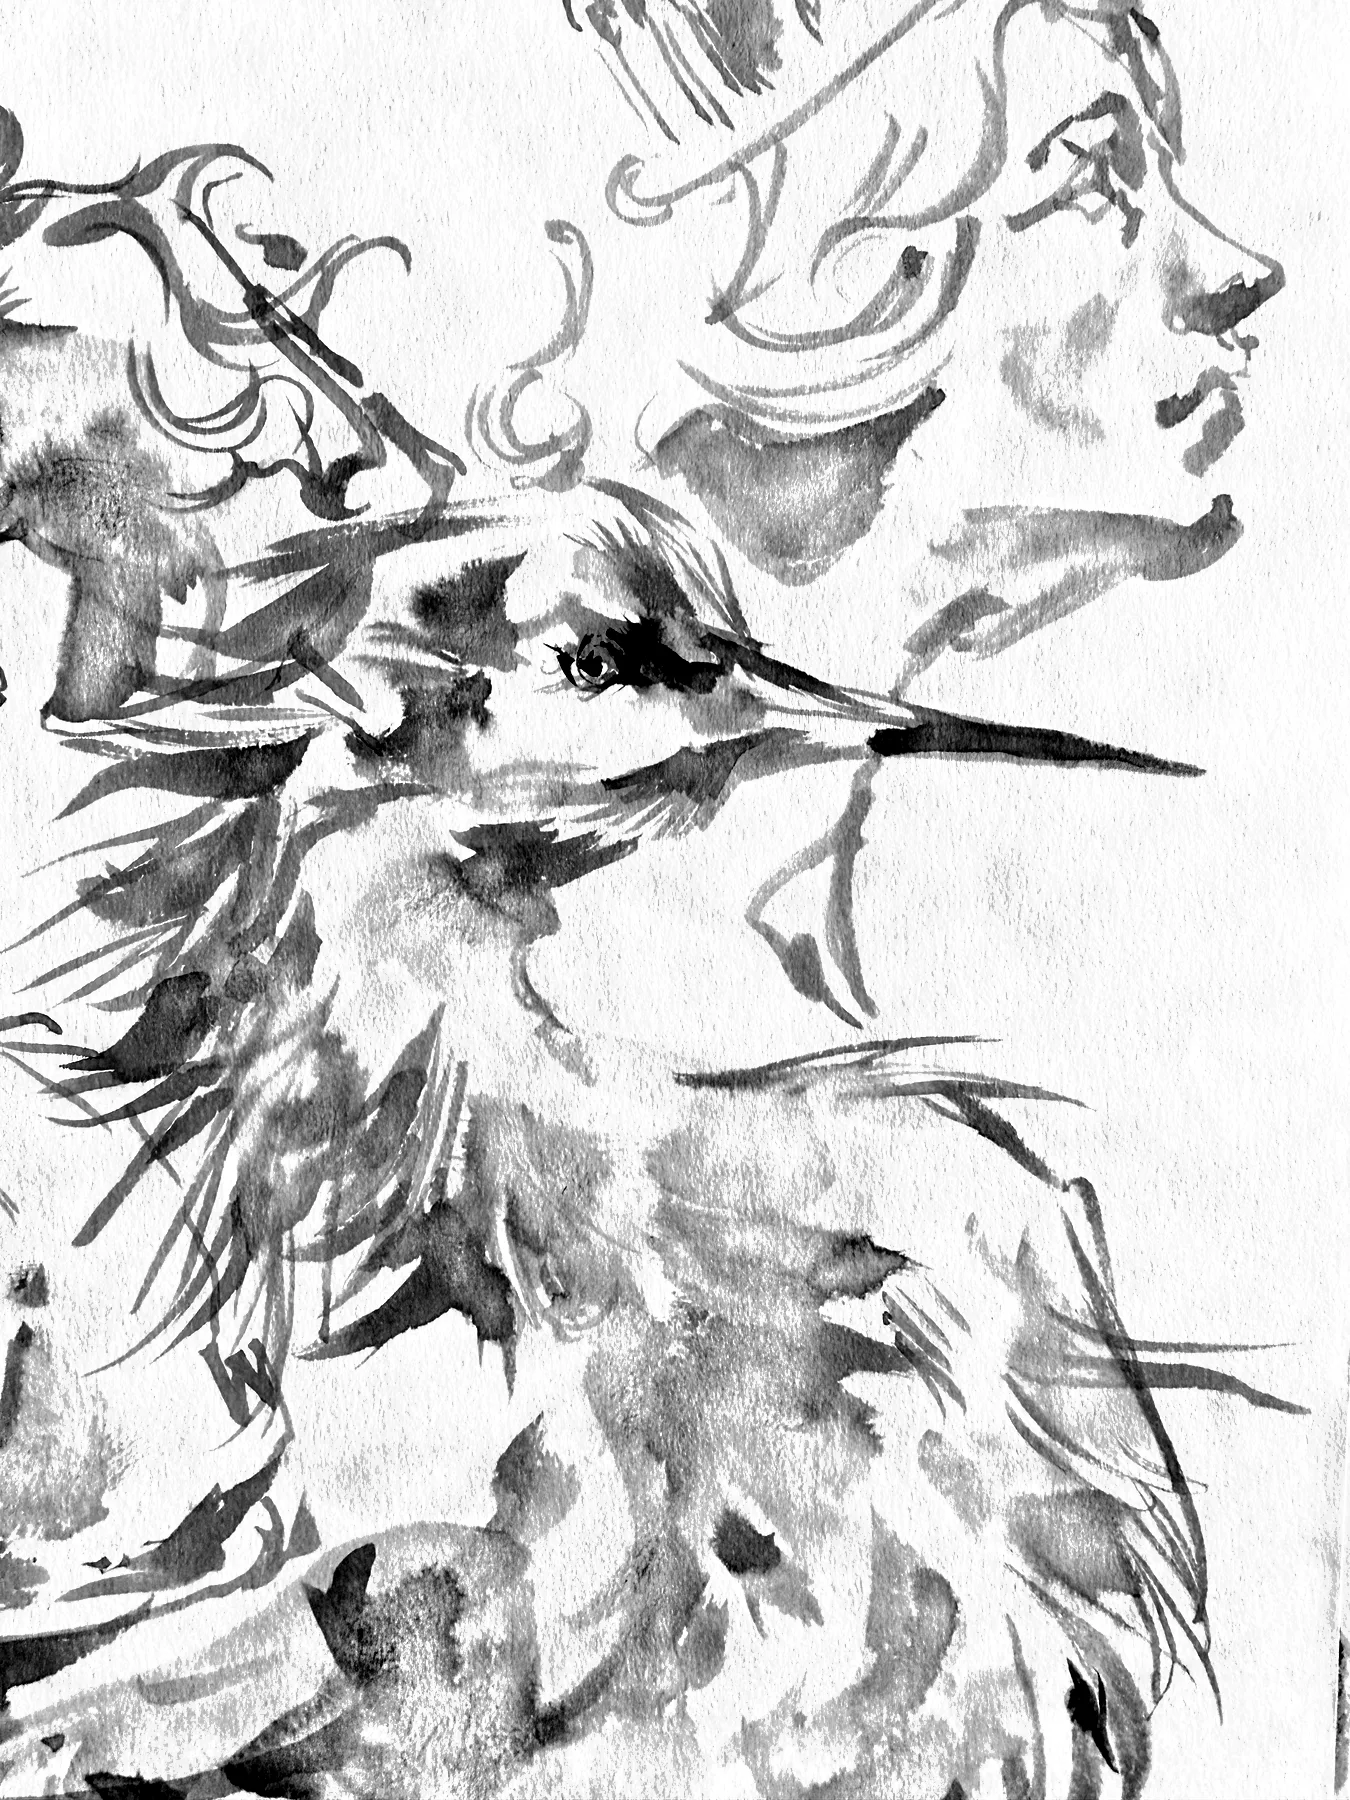
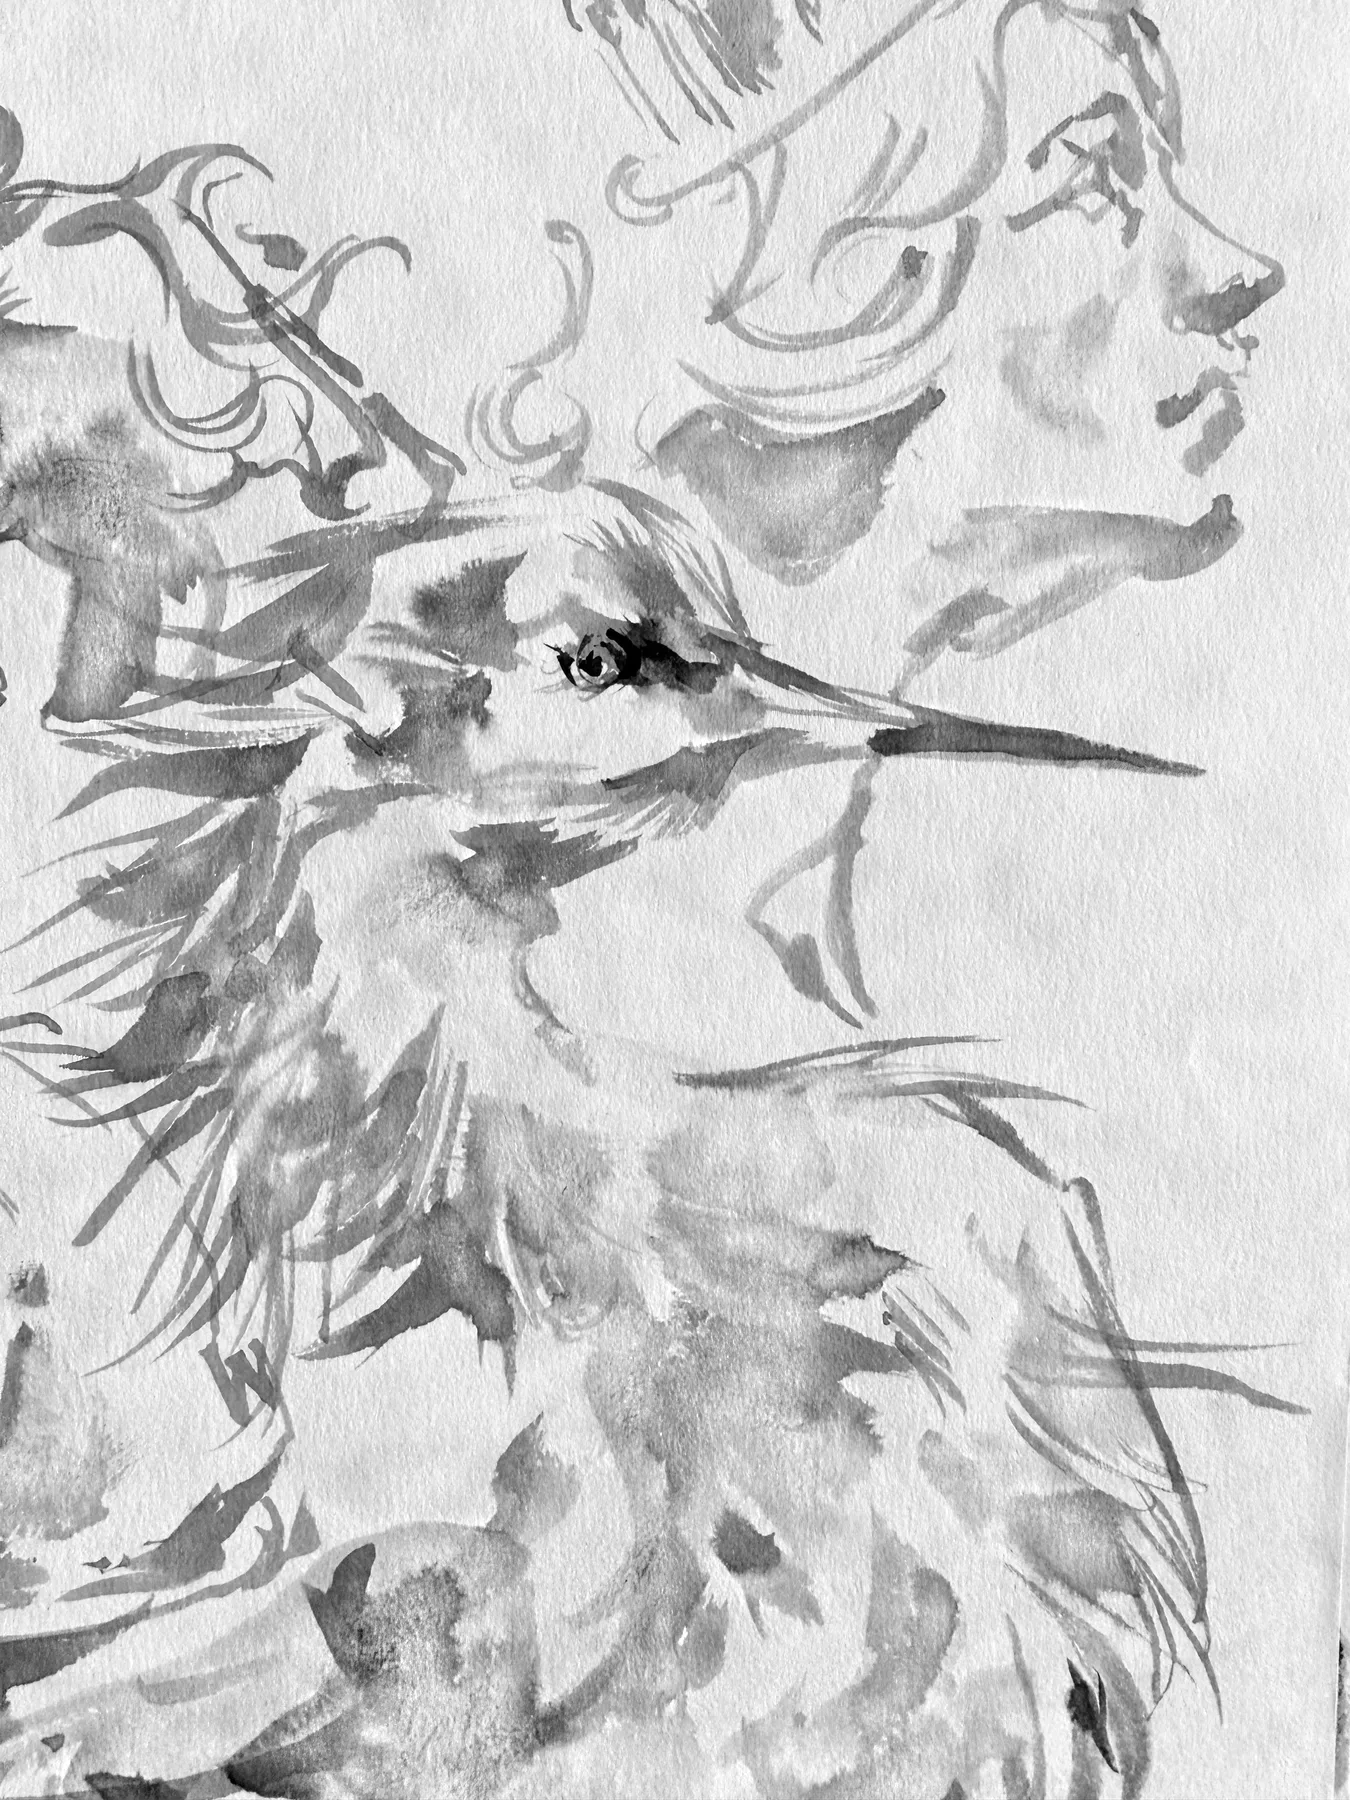
Soften ink-plate contrast to match earlier feed work.
Drop the hard black-point stretch for greyscale plates, grade paper gently instead, and reprocess Profile study, Bird and profile, and Sad basset hound.

diff --git a/docs/plate-pipeline.md b/docs/plate-pipeline.md
@@ -71,7 +71,7 @@ Instead the pipeline estimates the *paper* as a slowly varying field:
 
 ### 3. Stretch levels
 
-A percentile normalize maps darkest ink → near black and paper → near white. Ink plates use a **manual** levels stretch (sharp’s built-in `normalize` on 1-channel buffers introduces banding) plus a soft lift on the brightest paper so remaining grey doesn’t read as cream against the site.
+Ink plates use a **soft paper-white grade** (scale the bright paper percentile toward ~242) instead of a hard black-point stretch. That keeps washes in the greys, closer to early feed plates like bird-woman-study. Color plates still use a fuller levels stretch so hue stays punchy.
 
 ### 4. Encode + write content
 
